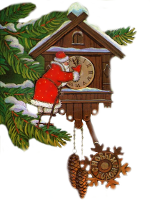
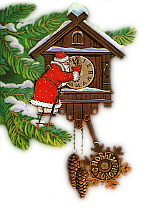
minor changes

diff --git a/assets/js/zira.js b/assets/js/zira.js
@@ -1274,6 +1274,9 @@
                         $(this).animate({left:'-10px'},1000);
                     });
                 });
+                $('.new-year-theme-img-1').click(function(){
+                    $(this).animate({left:'-150px'},1000);
+                });
             };
             img1.src = base + '/assets/images/holidays/clock.png';
         }
@@ -1287,6 +1290,9 @@
                     $(this).animate({top:'-20px'},500,function(){
                         $(this).animate({top:'-10px'},1000);
                     });
+                });
+                $('.new-year-theme-img-2').click(function(){
+                    $(this).animate({top:'-205px'},1000);
                 });
             };
             img2.src = base + '/assets/images/holidays/toys.png';
@@ -1302,9 +1308,27 @@
                         $(this).animate({bottom:'-10px'},1000);
                     });
                 });
+                $('.new-year-theme-img-3').click(function(){
+                    $(this).animate({bottom:'-300px'},1000);
+                });
             };
             img3.src = base + '/assets/images/holidays/ded.png';
         }
+        
+        var img4 = new Image();
+        img4.onload = function(){
+            $('header').append('<div class="new-year-theme-img new-year-theme-img-4"></div>');
+            $('.new-year-theme-img-4').css('background-image','url('+img4.src+')');
+            $('.new-year-theme-img-4').css('top','-42px').show().animate({top:0},1000,function(){
+                $(this).animate({top:'-5px'},500,function(){
+                    $(this).animate({top:'0px'},500);
+                });
+            });
+            $('.new-year-theme-img-4').click(function(){
+                $(this).animate({top:'-42px'},1000);
+            });
+        };
+        img4.src = base + '/assets/images/holidays/led.png';
         
         if (typeof(window.orientation) == "undefined") {
             ZiraSpreadInit = function(){
@@ -1320,15 +1344,15 @@
         }
         
         $(window).scroll(function(){
-            if ($('#top-menu-wrapper').hasClass('fixed') && !$('.new-year-theme-img-2').hasClass('faded')) {
+            var top = $(window).scrollTop();
+            if (top>100 && !$('.new-year-theme-img-2').hasClass('faded')) {
                 $('.new-year-theme-img-2').addClass('faded');
-                $('.new-year-theme-img-2').animate({top:'-205px'},1000);
-            } else if (!$('#top-menu-wrapper').hasClass('fixed') && $('.new-year-theme-img-2').hasClass('faded')) {
+                $('.new-year-theme-img-2').animate({right:'-150px'},1000);
+            } else if (top<=100 && $('.new-year-theme-img-2').hasClass('faded')) {
                 $('.new-year-theme-img-2').removeClass('faded');
-                $('.new-year-theme-img-2').animate({top:'0px'},1000);
+                $('.new-year-theme-img-2').animate({right:'0px'},1000);
             }
             if ($(window).width()<992) {
-                var top = $(window).scrollTop();
                 if (top>100 && !$('.new-year-theme-img-1').hasClass('faded')) {
                     $('.new-year-theme-img-1').addClass('faded');
                     $('.new-year-theme-img-1').animate({left:'-150px'},1000);

diff --git a/assets/css/zira.css b/assets/css/zira.css
@@ -391,6 +391,14 @@ textarea {
     width: 213px;
     height: 300px;
 }
+.new-year-theme-img-4 {
+    position: absolute;
+    top: 0;
+    left: 100px;
+    width: 118px;
+    height: 42px;
+    z-index: 98;
+}
 @keyframes newyearimg {
     0% {
         transform: translateY(-5px) rotateZ(-1deg);
@@ -420,6 +428,10 @@ textarea {
     .new-year-theme-img-1 {
         top: auto;
         bottom: 0px;
+    }
+    .new-year-theme-img-4 {
+        left: 0;
+        width: 62px;
     }
 }
 
